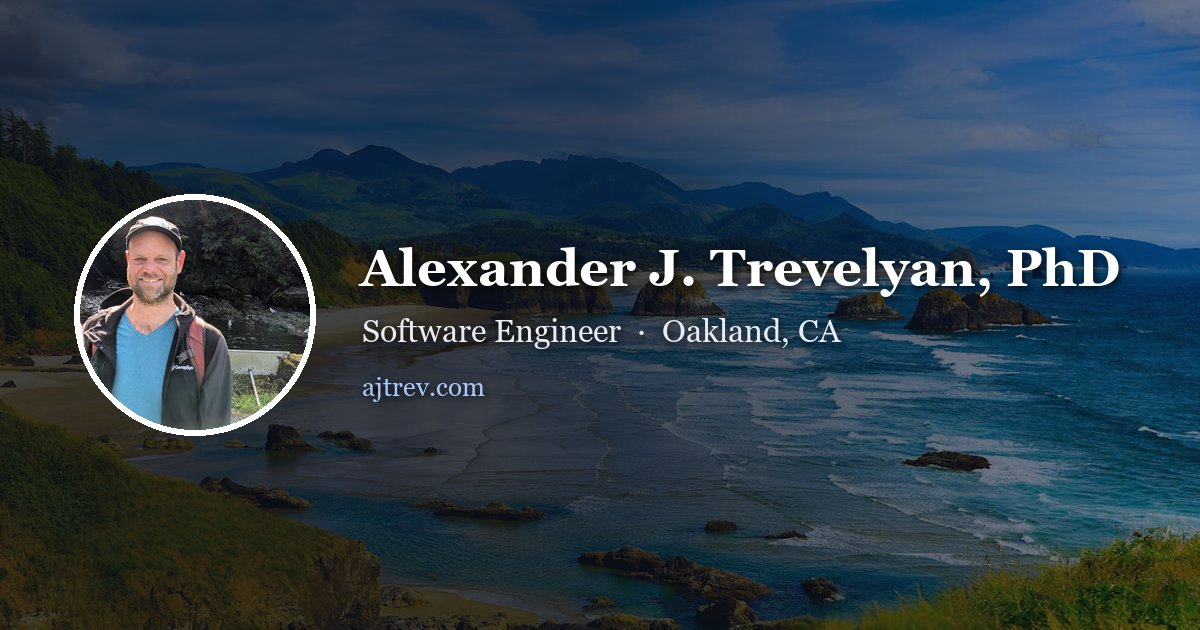
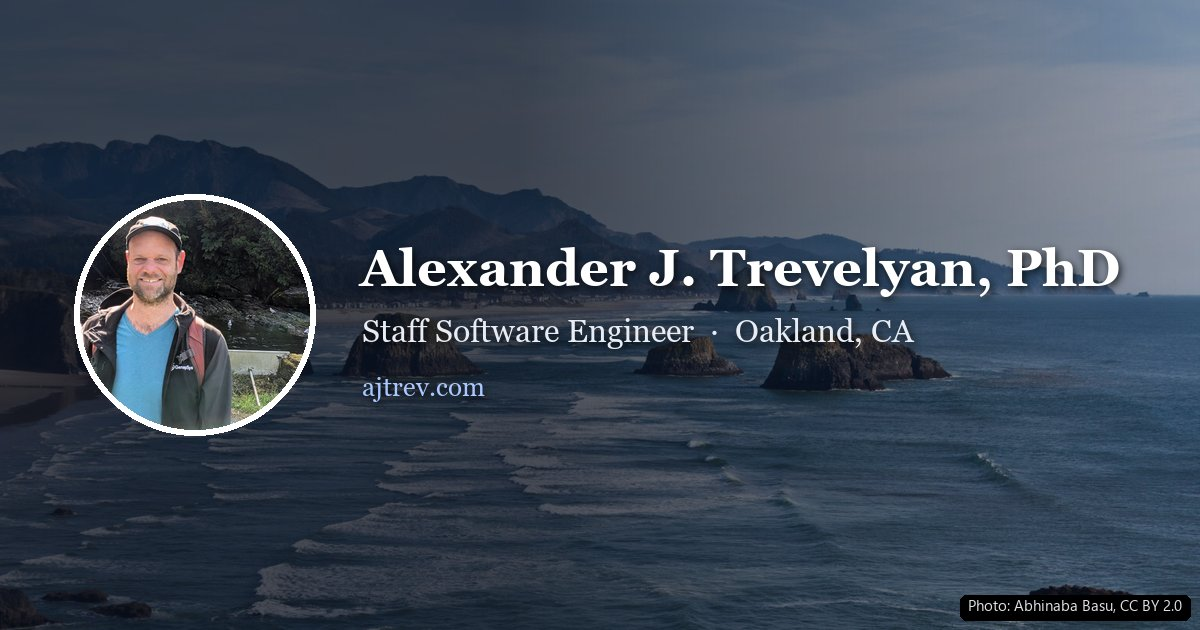
WIP: full-scene coastline hero (option A), new photo with CC BY attribution
- Header sits on a frosted panel over the Oregon coast photo (Abhinaba
  Basu, CC BY 2.0, credited in the footer); panel sized so the name and
  all four buttons stay on one line from ~800px up; stacked card with a
  2x2 button grid below that.
- Old banner photo removed; og-image rebuilt from the new photo with the
  new headline and an in-image credit.

diff --git a/site/index.html b/site/index.html
@@ -16,7 +16,7 @@
     <meta property="og:image" content="https://ajtrev.com/og-image.jpg" />
     <meta property="og:image:width" content="1200" />
     <meta property="og:image:height" content="630" />
-    <meta property="og:image:alt" content="Alexander J. Trevelyan, PhD. Software Engineer, Oakland, CA" />
+    <meta property="og:image:alt" content="Alexander J. Trevelyan, PhD. Staff Software Engineer, Oakland, CA" />
     <meta name="twitter:card" content="summary_large_image" />
     <link rel="preconnect" href="https://fonts.googleapis.com" />
     <link rel="preconnect" href="https://fonts.gstatic.com" crossorigin />
@@ -178,31 +178,6 @@
                 background: #1f5cd6;
                 border-color: #1f5cd6;
                 color: #fff;
-            }
-
-        /* ── BANNER (slim band) ── */
-        .banner {
-            position: relative;
-            height: 230px;
-            overflow: hidden;
-        }
-
-            .banner img {
-                display: block;
-                width: 100%;
-                height: 100%;
-                object-fit: cover;
-                object-position: center 58%;
-            }
-
-            .banner::after {
-                content: '';
-                position: absolute;
-                inset: 0;
-                pointer-events: none;
-                background:
-                    linear-gradient(to bottom, var(--bg) 0%, transparent 28%, transparent 72%, var(--bg) 100%),
-                    linear-gradient(to right, var(--bg) 0%, transparent 10%, transparent 90%, var(--bg) 100%);
             }
 
         /* ── STICKY SECTION NAV ── */
@@ -699,10 +674,6 @@
                 font-size: 2rem;
             }
 
-            .banner {
-                height: 150px;
-            }
-
             .scroll-story {
                 grid-template-columns: 1fr;
                 gap: 1.5rem;
@@ -730,12 +701,119 @@
                 padding: 1.4rem;
             }
         }
+
+        /* ── HERO: full-scene photo with the header on a frosted panel ── */
+        .hero {
+            position: relative;
+            overflow: hidden;
+        }
+
+        .hero-img {
+            position: absolute;
+            inset: 0;
+            width: 100%;
+            height: 100%;
+            object-fit: cover;
+            object-position: 50% 40%;
+        }
+
+        /* header.wrap.hero-inner out-ranks header.wrap and .wrap */
+        header.wrap.hero-inner {
+            position: relative;
+            max-width: 1280px;
+            min-height: 620px;
+            padding-top: 4.5rem;
+            padding-bottom: 4.5rem;
+        }
+
+        /* Wide enough that the name stays on one line and all four buttons fit in one row */
+        .hero-panel {
+            max-width: 740px;
+            gap: 1.8rem;
+            background: rgba(248, 248, 246, 0.88);
+            backdrop-filter: blur(10px) saturate(1.1);
+            border: 1px solid rgba(255, 255, 255, 0.7);
+            border-radius: 16px;
+            box-shadow: 0 12px 40px rgba(20, 30, 45, 0.18);
+            padding: 1.8rem;
+        }
+
+            .hero-panel h1 {
+                font-size: 2.3rem;
+                white-space: nowrap;
+            }
+
+            .hero-panel .header-photo {
+                width: 120px;
+                height: 152px;
+            }
+
+            .hero-panel .actions {
+                flex-wrap: nowrap;
+            }
+
+        .credit {
+            flex-basis: 100%;
+            order: 3;
+            font-size: 0.75rem;
+            color: var(--faint);
+        }
+
+            .credit a {
+                color: var(--faint);
+                text-decoration: underline;
+            }
+
+        /* Narrow screens (phones, small tablets, split windows): photo on top, panel as a card overlapping
+           its bottom edge, buttons in a 2x2 grid. 800px, not 640px: below ~800px the one-line name and
+           button row no longer fit beside the photo. */
+        @media (max-width: 800px) {
+            .hero-img {
+                position: static;
+                height: 220px;
+            }
+
+            header.wrap.hero-inner {
+                min-height: 0;
+                padding-top: 0;
+                padding-bottom: 1.5rem;
+                margin-top: -64px;
+            }
+
+            .hero-panel {
+                max-width: none;
+                padding: 1.3rem;
+                flex-direction: column;
+                gap: 1.2rem;
+            }
+
+                .hero-panel h1 {
+                    font-size: 1.9rem;
+                    white-space: normal;
+                }
+
+                .hero-panel .header-photo {
+                    width: 96px;
+                    height: 120px;
+                }
+
+                .hero-panel .actions {
+                    display: grid;
+                    grid-template-columns: 1fr 1fr;
+                }
+
+                    .hero-panel .actions .btn {
+                        justify-content: center;
+                    }
+        }
     </style>
 </head>
 <body>
 
-    <header class="wrap">
-        <div class="header-inner">
+    <div class="hero">
+        <img class="hero-img" src="coast.webp" srcset="coast-1200.webp 1200w, coast.webp 2000w" sizes="100vw" width="2000" height="1333" alt="" fetchpriority="high" />
+        <header class="wrap hero-inner">
+            <div class="header-inner hero-panel">
             <img class="header-photo" src="me_alaska.webp" alt="Alexander J. Trevelyan" width="340" height="458" />
             <div class="header-text">
                 <h1>Alexander J. Trevelyan, PhD</h1>
@@ -764,11 +842,8 @@
                     </a>
                 </div>
             </div>
-        </div>
-    </header>
-
-    <div class="banner" aria-hidden="true">
-        <img src="banner.webp" width="1600" height="914" alt="" />
+            </div>
+        </header>
     </div>
 
     <nav class="section-nav" aria-label="Sections">
@@ -1001,6 +1076,7 @@
     <footer>
         <div class="wrap">
             <span>© 2026 Alexander J. Trevelyan</span>
+            <p class="credit">Coastline photo: <a href="https://commons.wikimedia.org/wiki/File:Oregon_coastline_near_Cannon_Beach.jpg" target="_blank" rel="noopener">“Oregon coastline near Cannon Beach”</a> by Abhinaba Basu, <a href="https://creativecommons.org/licenses/by/2.0/" target="_blank" rel="noopener">CC BY 2.0</a>, cropped and resized.</p>
             <nav aria-label="Elsewhere">
                 <a href="mailto:atrevely@gmail.com">Email</a>
                 <a href="https://www.linkedin.com/in/ajtrev/" target="_blank" rel="noopener">LinkedIn</a>
